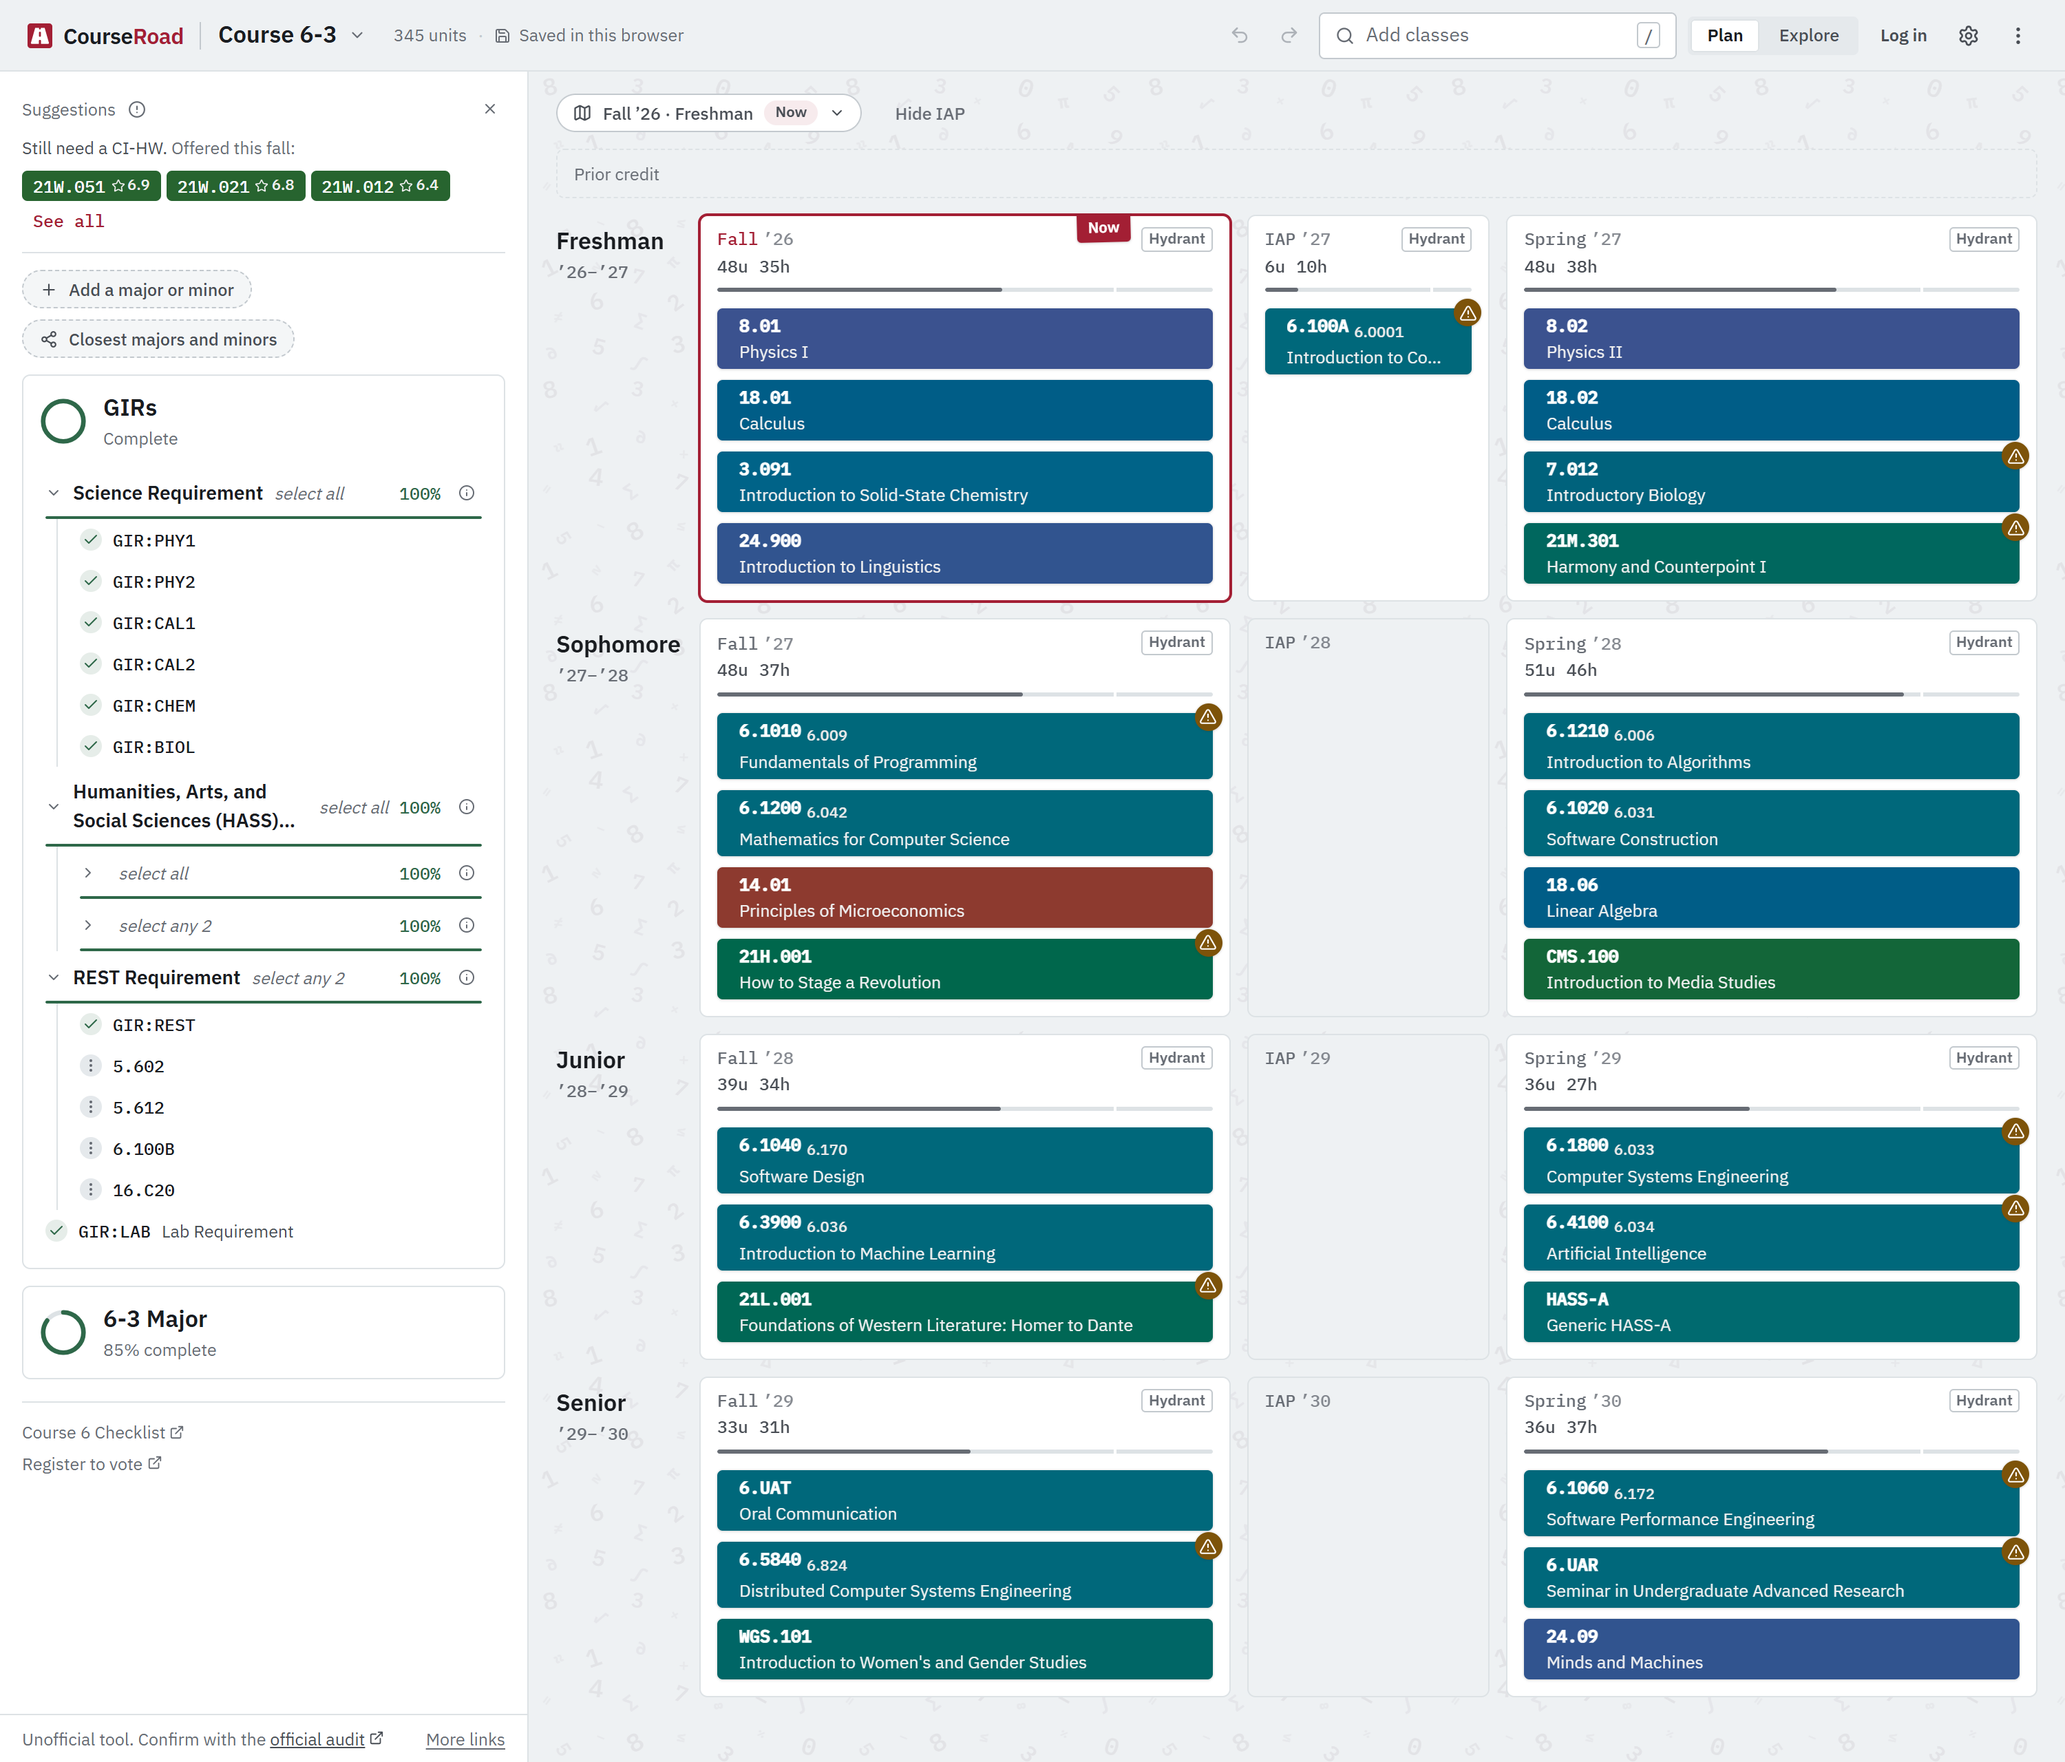
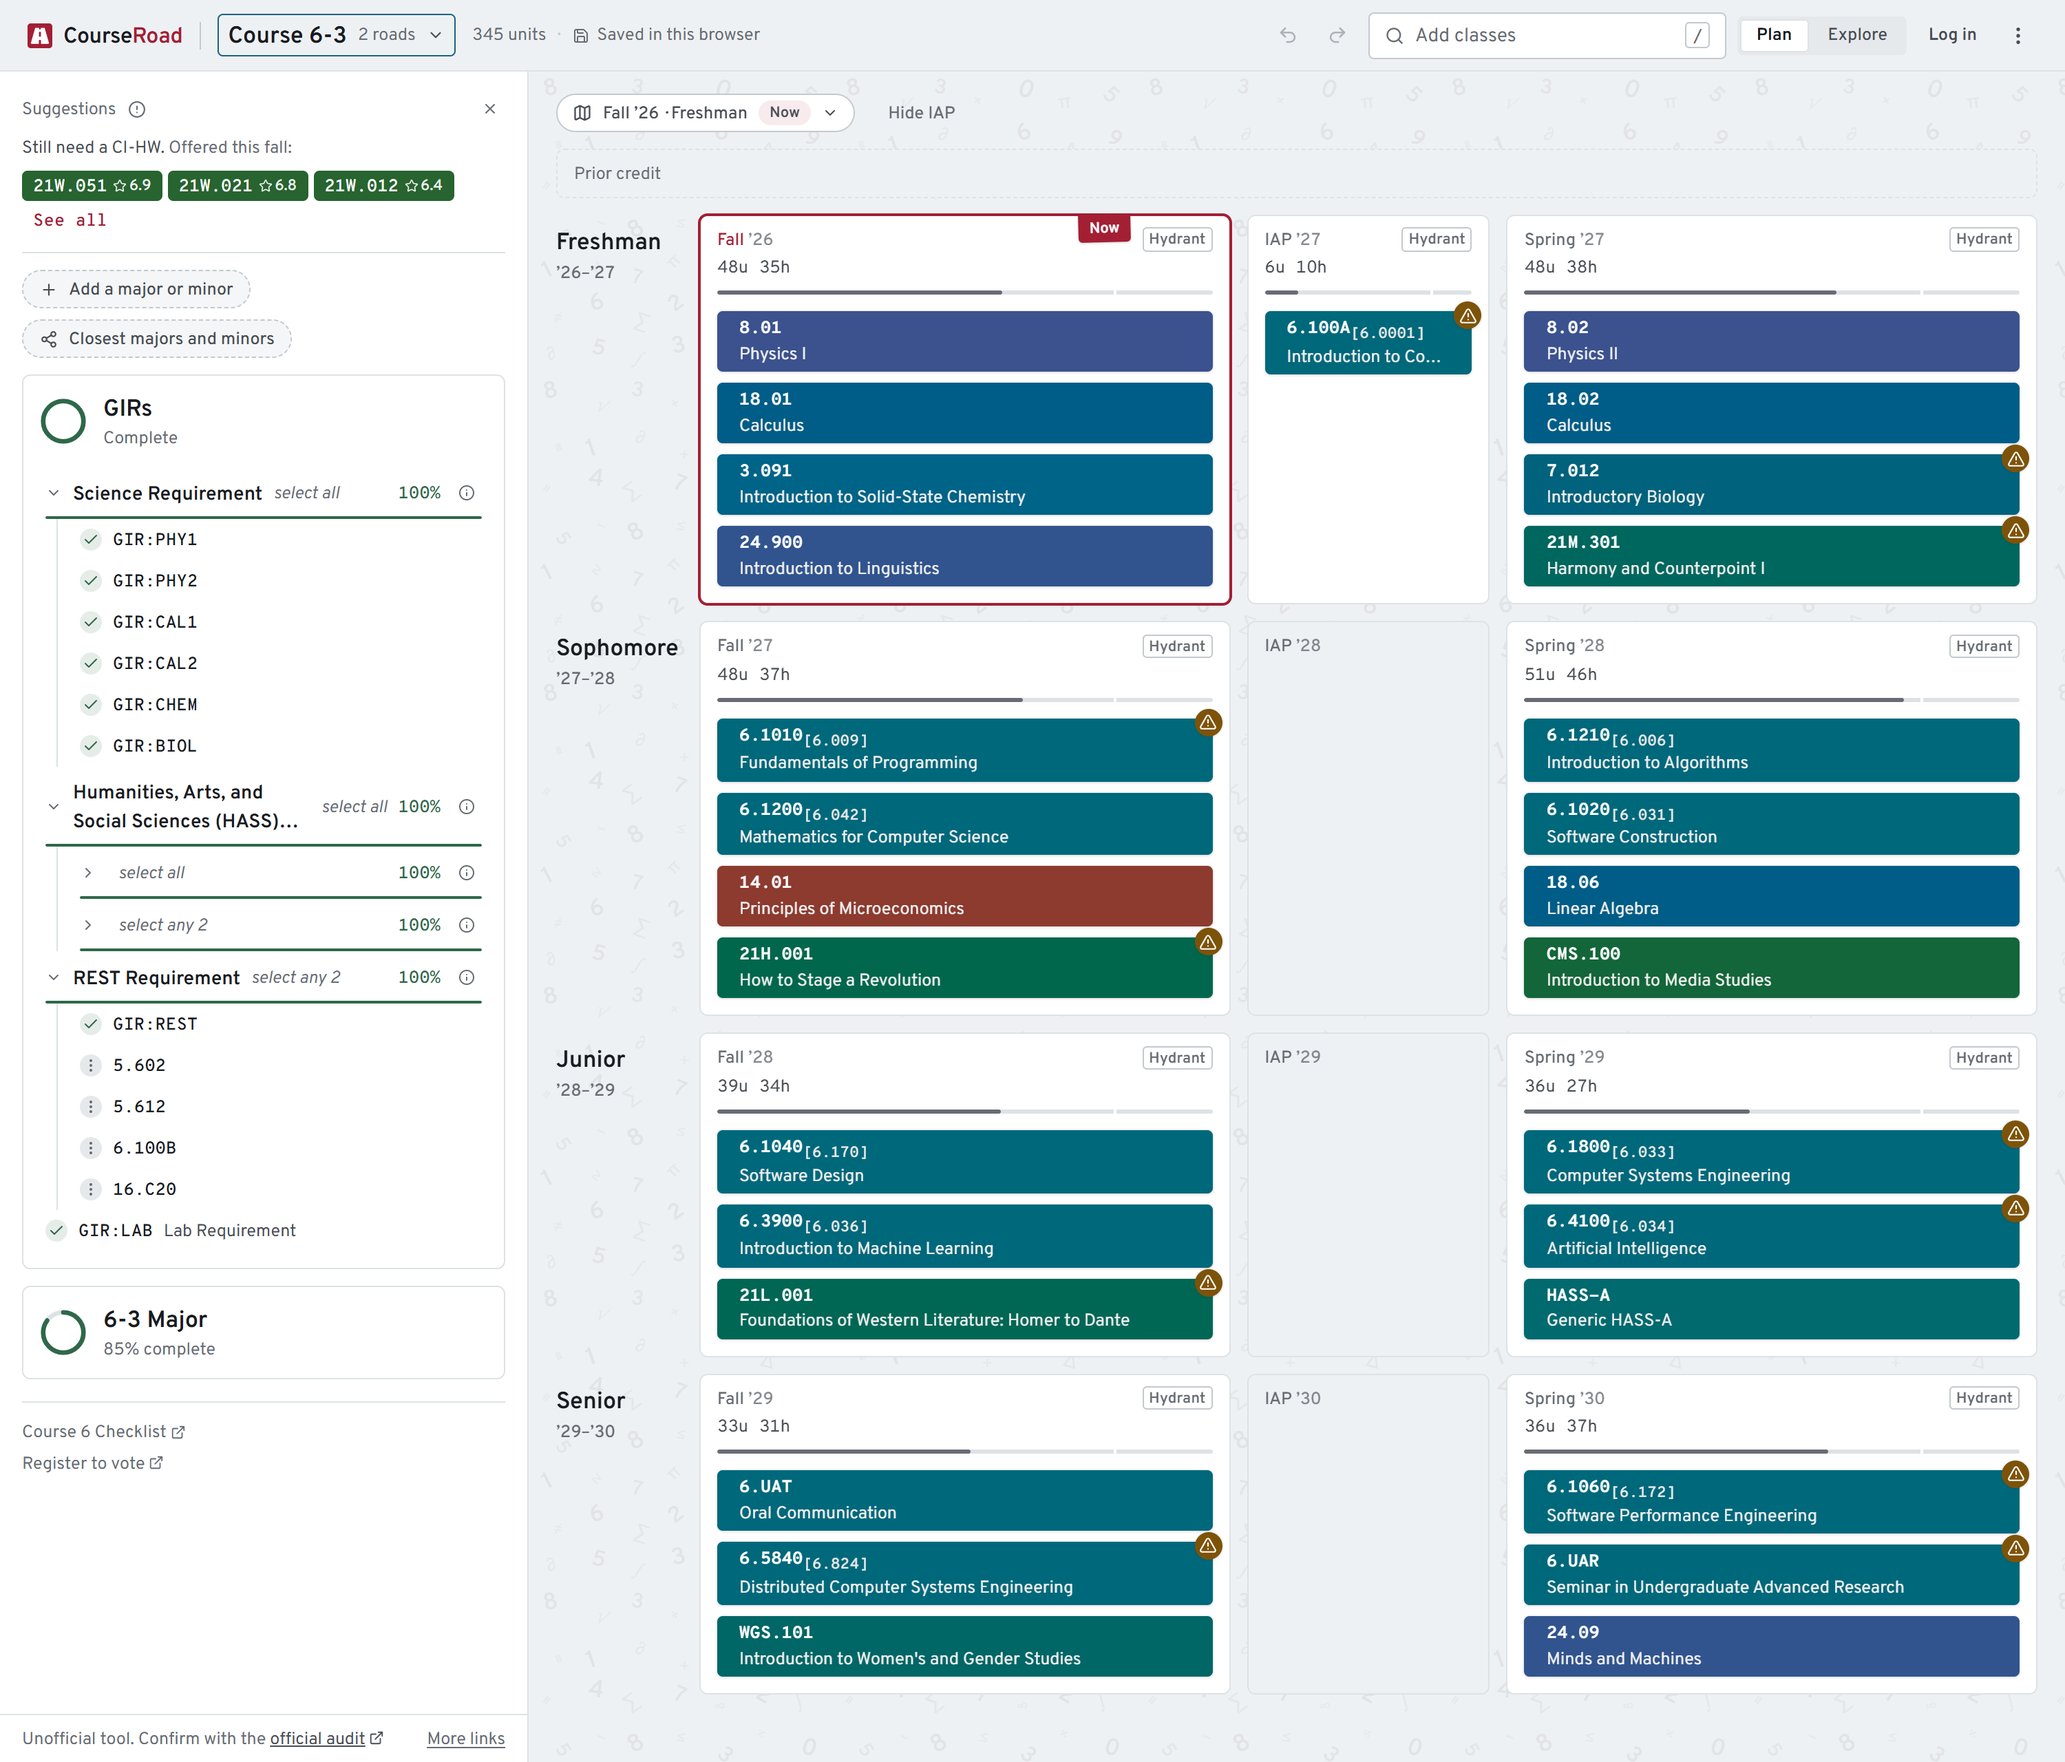
finshing touches

diff --git a/src/components/canvas/ClassCard.vue b/src/components/canvas/ClassCard.vue
@@ -31,9 +31,9 @@
     <div class="card-body">
       <span class="card-id">
         {{ subject.subject_id
-        }}<sub v-if="oldID !== undefined" class="card-old-id">
-          [{{ oldID }}]
-        </sub>
+        }}<sub v-if="oldID !== undefined" class="card-old-id"
+          >[{{ oldID }}]</sub
+        >
       </span>
       <span class="card-title">{{ subject.title }}</span>
     </div>
@@ -317,14 +317,14 @@ function onHoverEnd() {
 }
 .card-id {
   font: var(--text-id-small);
-  font-weight: 550; /* the id is the atomic unit; it leads by weight */
+  font-weight: 700; /* the id is the atomic unit; it leads by weight */
   color: var(--dept-on);
   white-space: nowrap;
   text-overflow: clip;
   overflow: hidden;
 }
 .card-old-id {
-  font: var(--text-micro);
+  font: var(--text-id-micro);
   color: var(--dept-on-3);
 }
 .card-title {

diff --git a/src/components/detail/ClassDetail.vue b/src/components/detail/ClassDetail.vue
@@ -41,9 +41,9 @@
       >
         <h2 class="detail-id">
           {{ subject.subject_id
-          }}<sub v-if="subject.old_id" class="detail-old-id">
-            [{{ subject.old_id }}]
-          </sub>
+          }}<sub v-if="subject.old_id" class="detail-old-id"
+            >[{{ subject.old_id }}]</sub
+          >
         </h2>
         <p class="detail-title" data-cy="cardSubjectTitle">
           {{ subject.title }}
@@ -835,9 +835,10 @@ onBeforeUnmount(() => window.removeEventListener("keydown", onKeydown));
   font: var(--text-id-lg);
   margin: 0;
   color: var(--dept-on);
+  font-weight: 700;
 }
 .detail-old-id {
-  font-size: 0.55em;
+  font: var(--text-id-small);
   color: var(--dept-on-3);
 }
 .detail-title {

diff --git a/src/design/tokens.css b/src/design/tokens.css
@@ -119,6 +119,7 @@
   --text-data: 600 1.375rem/1.25 var(--font-mono); /* 22px, stat values */
   --text-id: 550 0.875rem/1.4 var(--font-mono); /* 14px, subject ids */
   --text-id-small: 550 0.78125rem/1.35 var(--font-mono); /* 12.5px */
+  --text-id-micro: 550 0.6875rem/1.3 var(--font-mono); /* 11px */
   /* Overpass opens up slightly at display sizes; tighten anything ≥22px */
   --tracking-tight: -0.01em;
 
